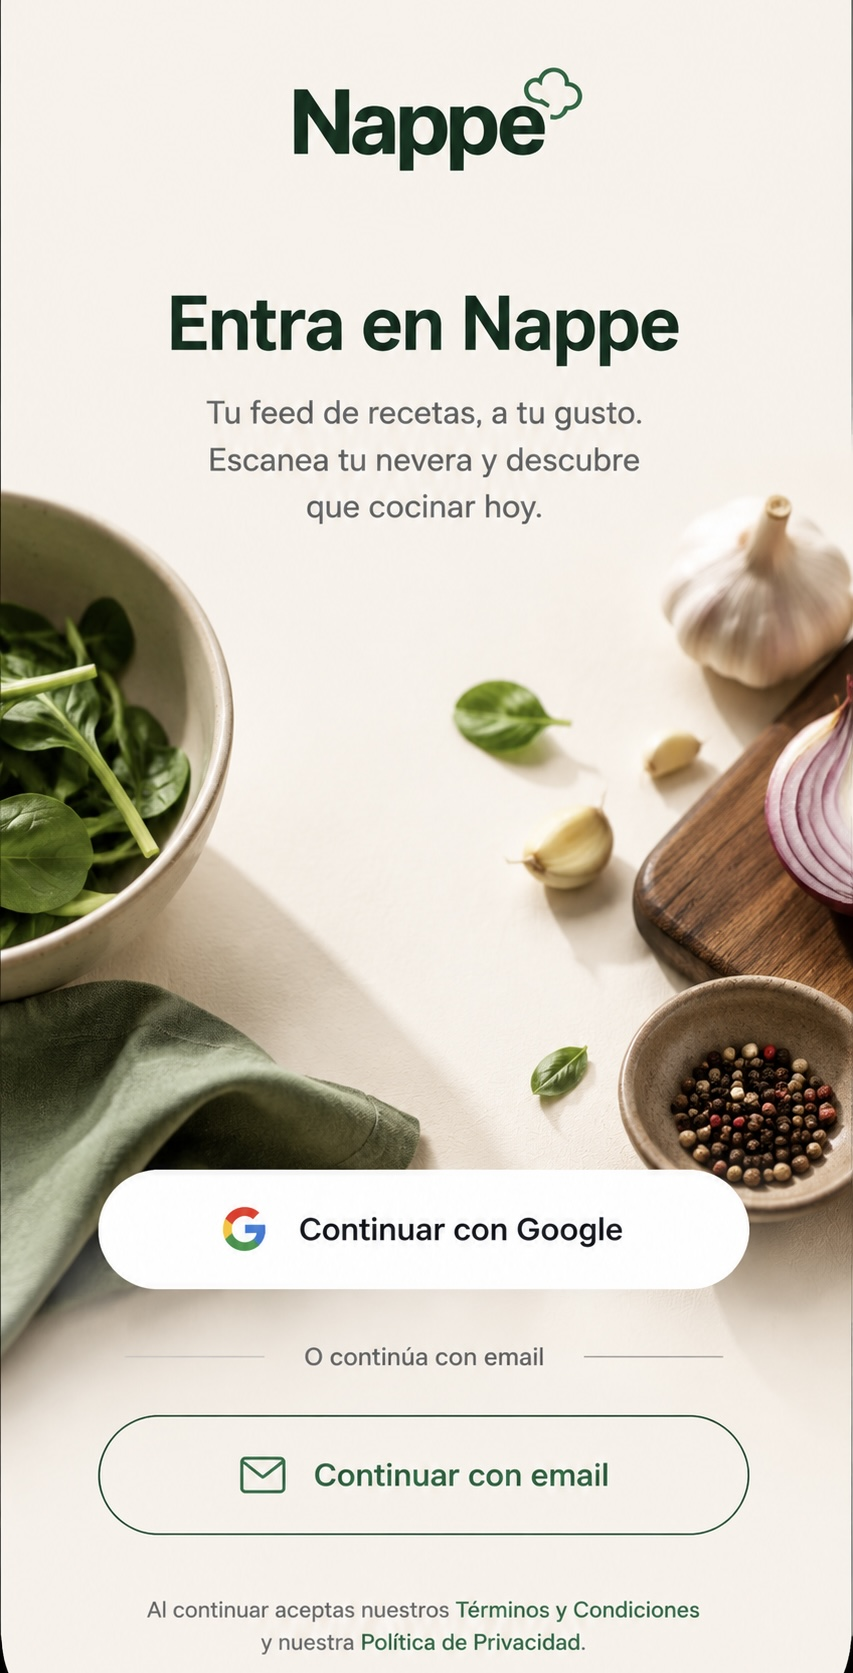
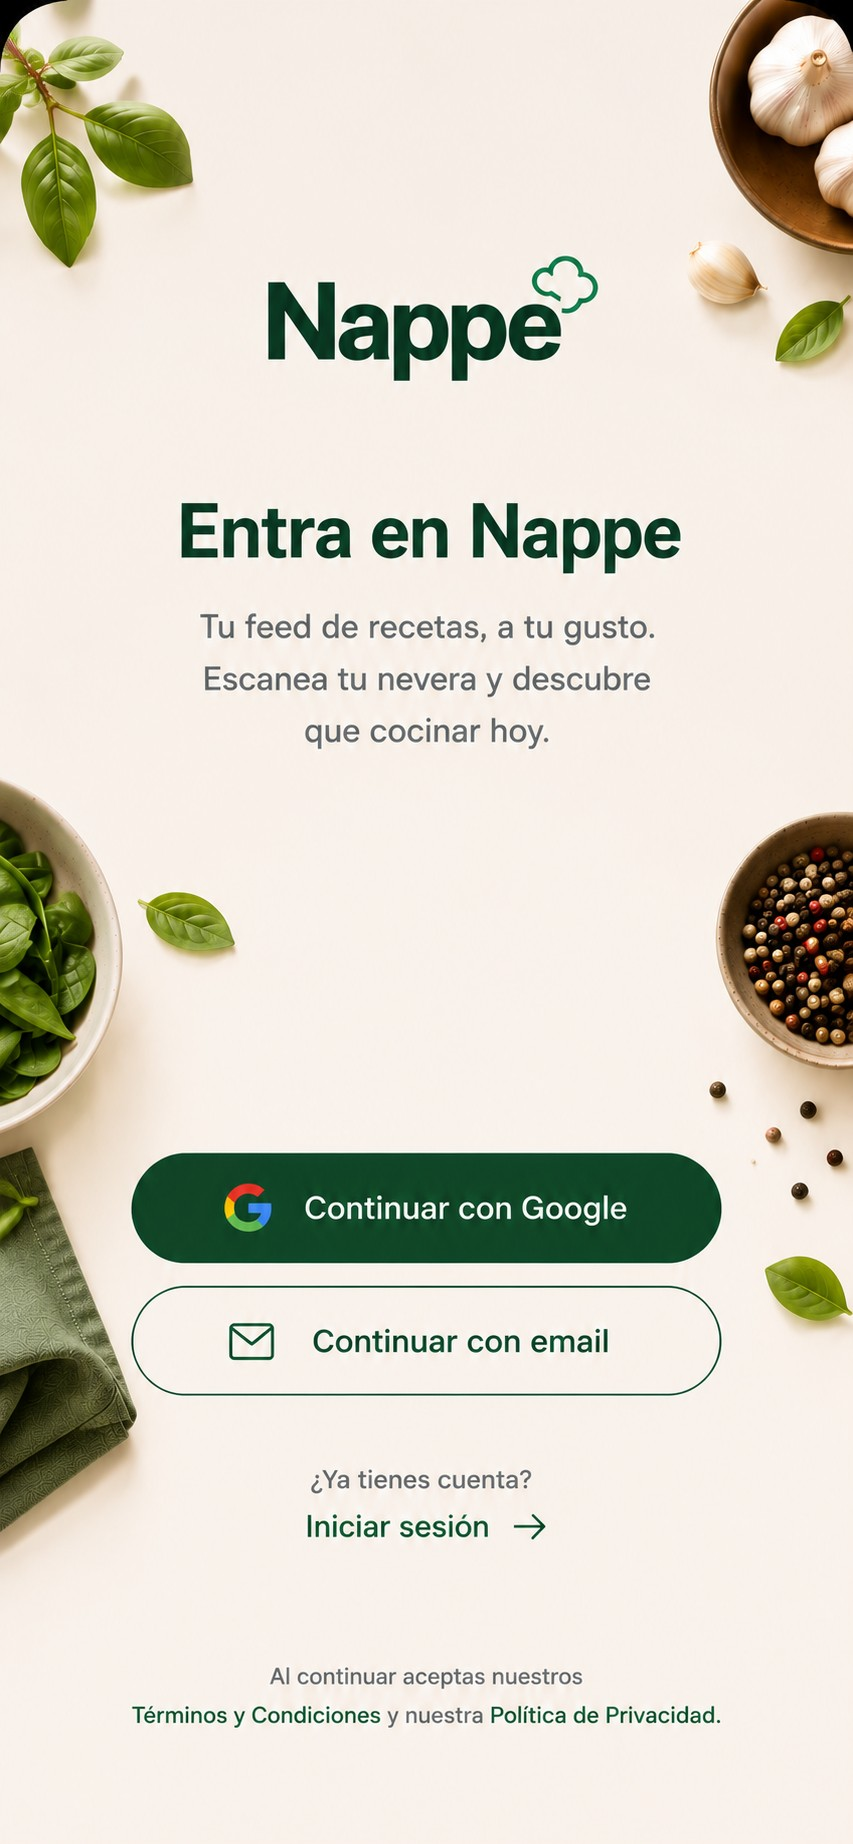
Sustituye el prompt nativo por un formulario propio de email + contraseña, y actualiza la imagen de login
El dialogo nativo del navegador para el email quedaba feisimo y no
pedia contraseña. Se sustituye por una hoja propia con el mismo
estilo que el resto de la app (campos, boton en pildora), que sirve
tanto para crear cuenta como para iniciar sesion via
signUp/signInWithPassword de Supabase, con un enlace para alternar
entre ambos modos.

Se reemplaza la imagen de la pantalla de login por la nueva version
que aporto el usuario (boton de Google en verde solido, boton de
email en contorno, enlace "¿Ya tienes cuenta? Iniciar sesion" y
texto legal), y se recalculan las tres zonas pulsables invisibles
(Google, email, iniciar sesion) sobre las nuevas coordenadas.

diff --git a/index.html b/index.html
@@ -56,6 +56,37 @@
     transition: all 0.3s cubic-bezier(.2,.8,.2,1);
   }
   .ob-dots span.active { background: #1E6B41; width: 20px; border-radius: 100px; }
+
+  .email-modal {
+    position: fixed; inset: 0; z-index: 100;
+    display: flex; align-items: flex-end;
+  }
+  .email-modal.hidden { display: none; }
+  .email-modal-backdrop {
+    position: absolute; inset: 0;
+    background: rgba(15,46,29,0.45);
+    animation: fadeInUp 0.25s ease both;
+  }
+  .email-modal-sheet {
+    position: relative; width: 100%;
+    background: var(--bg-raised);
+    border-radius: 26px 26px 0 0;
+    padding: 28px 24px calc(28px + env(safe-area-inset-bottom));
+    animation: fadeInUp 0.3s var(--ease) both;
+  }
+  .email-modal-close {
+    position: absolute; top: 16px; right: 16px;
+    width: 34px; height: 34px; border-radius: 50%; border: none;
+    background: var(--bg-input); color: var(--fg-dim);
+    display: flex; align-items: center; justify-content: center;
+    font-size: 1.3rem; line-height: 1;
+  }
+  .email-modal-sheet h2 { margin-bottom: 18px; padding-right: 40px; }
+  .email-toggle {
+    background: none; border: none; width: 100%; text-align: center;
+    color: var(--fg-dim); font-size: 0.85rem; font-weight: 600;
+    text-decoration: underline; padding: 6px 0 0;
+  }
 </style>
 </head>
 <body>
@@ -80,6 +111,28 @@
   <div class="ob-slide" data-img="img/onboarding/login.jpg" id="login-slide">
     <button type="button" class="ob-hit" id="google-hit" aria-label="Continuar con Google"></button>
     <button type="button" class="ob-hit" id="email-hit" aria-label="Continuar con email"></button>
+    <button type="button" class="ob-hit" id="signin-hit" aria-label="Iniciar sesion"></button>
+  </div>
+</div>
+
+<div id="email-modal" class="email-modal hidden">
+  <div class="email-modal-backdrop" id="email-modal-backdrop"></div>
+  <div class="email-modal-sheet">
+    <button type="button" class="email-modal-close" id="email-modal-close" aria-label="Cerrar">&times;</button>
+    <h2 id="email-modal-title">Crear cuenta</h2>
+    <form id="email-form">
+      <div class="field">
+        <label>Email</label>
+        <input type="email" id="email-input" required autocomplete="email">
+      </div>
+      <div class="field">
+        <label>Contrasena</label>
+        <input type="password" id="password-input" required autocomplete="current-password" minlength="6">
+      </div>
+      <p id="email-error" style="color:var(--danger); font-size:0.82rem; min-height:1.2em; margin-bottom:6px;"></p>
+      <button type="submit" class="btn btn-primary" id="email-submit">Crear cuenta</button>
+    </form>
+    <button type="button" class="email-toggle" id="email-toggle-mode">¿Ya tienes cuenta? Inicia sesion</button>
   </div>
 </div>
 
@@ -139,8 +192,9 @@ function setupLoginHits() {
   const img = new Image();
   img.onload = () => {
     const place = () => {
-      placeHit(document.getElementById('google-hit'), img, loginSlide, { top: 0.699, left: 0.117, width: 0.768, height: 0.077 });
-      placeHit(document.getElementById('email-hit'), img, loginSlide, { top: 0.839, left: 0.123, width: 0.762, height: 0.077 });
+      placeHit(document.getElementById('google-hit'), img, loginSlide, { top: 0.612, left: 0.148, width: 0.70, height: 0.072 });
+      placeHit(document.getElementById('email-hit'), img, loginSlide, { top: 0.692, left: 0.148, width: 0.70, height: 0.070 });
+      placeHit(document.getElementById('signin-hit'), img, loginSlide, { top: 0.792, left: 0.30, width: 0.40, height: 0.058 });
     };
     place();
     window.addEventListener('resize', place);
@@ -148,6 +202,77 @@ function setupLoginHits() {
   img.src = loginSlide.dataset.img;
 }
 setupLoginHits();
+
+// ---------- modal de email/contraseña ----------
+
+const modal = document.getElementById('email-modal');
+const emailForm = document.getElementById('email-form');
+const emailInput = document.getElementById('email-input');
+const passwordInput = document.getElementById('password-input');
+const emailError = document.getElementById('email-error');
+const emailSubmit = document.getElementById('email-submit');
+const emailToggle = document.getElementById('email-toggle-mode');
+const emailModalTitle = document.getElementById('email-modal-title');
+
+let authMode = 'signup';
+
+function setAuthMode(mode) {
+  authMode = mode;
+  emailError.textContent = '';
+  if (mode === 'signin') {
+    emailModalTitle.textContent = 'Iniciar sesion';
+    emailSubmit.textContent = 'Iniciar sesion';
+    emailToggle.textContent = '¿No tienes cuenta? Creala';
+  } else {
+    emailModalTitle.textContent = 'Crear cuenta';
+    emailSubmit.textContent = 'Crear cuenta';
+    emailToggle.textContent = '¿Ya tienes cuenta? Inicia sesion';
+  }
+}
+
+function openModal(mode) {
+  setAuthMode(mode);
+  emailInput.value = '';
+  passwordInput.value = '';
+  modal.classList.remove('hidden');
+  setTimeout(() => emailInput.focus(), 50);
+}
+
+function closeModal() {
+  modal.classList.add('hidden');
+}
+
+document.getElementById('email-hit').addEventListener('click', () => openModal('signup'));
+document.getElementById('signin-hit').addEventListener('click', () => openModal('signin'));
+document.getElementById('email-modal-backdrop').addEventListener('click', closeModal);
+document.getElementById('email-modal-close').addEventListener('click', closeModal);
+emailToggle.addEventListener('click', () => setAuthMode(authMode === 'signin' ? 'signup' : 'signin'));
+
+emailForm.addEventListener('submit', async (e) => {
+  e.preventDefault();
+  emailError.textContent = '';
+  emailSubmit.disabled = true;
+  const email = emailInput.value.trim();
+  const password = passwordInput.value;
+
+  const { data, error } = authMode === 'signin'
+    ? await supabase.auth.signInWithPassword({ email, password })
+    : await supabase.auth.signUp({ email, password });
+
+  emailSubmit.disabled = false;
+
+  if (error) {
+    emailError.textContent = error.message;
+    return;
+  }
+  if (!data.session) {
+    toast('Cuenta creada. Revisa tu correo para confirmarla.');
+    closeModal();
+    return;
+  }
+  closeModal();
+  goToApp(data.session.user);
+});
 
 async function goToApp(user) {
   try {
@@ -168,16 +293,6 @@ document.getElementById('google-hit').addEventListener('click', async () => {
     options: { redirectTo: window.location.origin + window.location.pathname },
   });
   if (error) toast(error.message);
-});
-
-document.getElementById('email-hit').addEventListener('click', async () => {
-  const email = window.prompt('Tu email:');
-  if (!email) return;
-  const { error } = await supabase.auth.signInWithOtp({
-    email,
-    options: { emailRedirectTo: window.location.origin + window.location.pathname },
-  });
-  toast(error ? error.message : 'Revisa tu correo para el enlace de acceso.');
 });
 
 supabase.auth.onAuthStateChange((_event, session) => {
